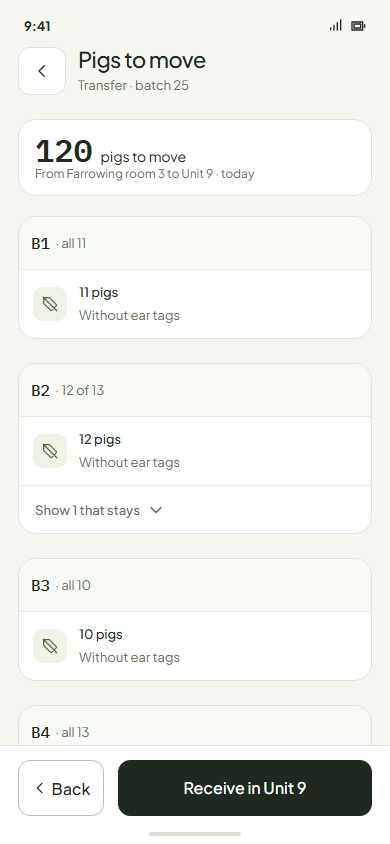
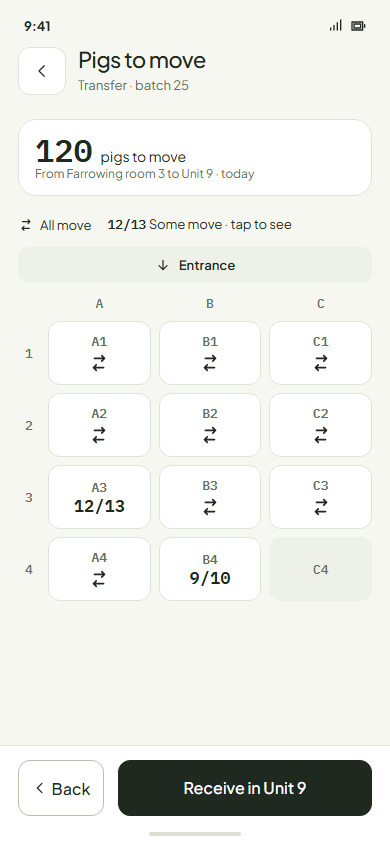
Count: pigs to move is the room's pen map (move glyph, 12/13, move/stay toggle); one receiving; ending the transfer is Farrowing's End task

diff --git a/features/count/PRD.md b/features/count/PRD.md
@@ -30,7 +30,8 @@ Reviewed on the Claude Design canvas ([canvas.md](canvas.md)). Ruled and redrawn
 
 - **Recount is the unit's, with a balance sheet** (owner, 2026-11-03; supersedes the per-pen Review count). *Recount · Unit 7* lists the unit's pens, each with what was found or *Not counted yet*; tapping a pen opens the pen count (all pigs, then ear tags by search or scan), whose *Done* returns to the list. *Count* on a pen page opens the same recount, straight into that pen. *Finish recount* shows the **unit balance sheet**: on record against counted; pigs found in another pen, which move; pigs without ear tags netted pen against pen (D4 −1, D5 +1: balanced), so pigs moved and not updated, or piglets shuffled between pens, stop being losses; and only what the unit can't account for (000803, found in no pen) goes on the batch's balancing sheet. *Save recount*. ([mock 10](mock/mock-10-unit-recount.png), [11](mock/mock-11-unit-balance.png).)
 - **The balance sheet: the result first, then what changed** (owner, 2026-11-03: "like a ledger … click the detail of each"; the first ledger drawing was rejected as ugly). A, recommended: a hero *On record 59 → Counted 60*, then *What changed*, one door per line with its signed figure in a tonal tile: *Found from other units +2*, *Not found −1* (the one amber tile: to the balancing sheet), *Without ear tags 0*. B: the same as a written statement with a sign column and a total rule ([A](mock/mock-11-unit-balance.png), [B](mock/mock-11-unit-balance-b.png)). Each line opens its pigs ([11b](mock/mock-11b-found.png), [11c](mock/mock-11c-not-found.png), [11d](mock/mock-11d-without-tags.png)). A pig moved between pens inside the unit changes no line. The pen list says each pen's state with the Status colours (*Counted* green, *To do* grey) and the pigs counted; its bar is done-green segments on the empty track, never progress blue.
-- **Receiving is two parts: the plan, then the count** (owner, 2026-11-03; supersedes receiving pen by pen). 1 · *The plan*: where the batch goes and how many in each pen, drawn on the unit's pen map (15 a pen, or a pen's maximum), each tile its pen code and its planned number; for gestation crates, the white crates get a sow and no number is needed. The crew puts pigs in by it; it is a guide, and nothing is recorded while pigs are moving. 2 · *The count*: once the pigs are in, *Count pens* turns the same map into the count; a counted pen turns done-green with its count, the rest keep the plan; tapping a pen opens the pen count (all pigs, then ear tags). What was counted is where the pigs are. *Finish receiving* shows *Sent 120 → Counted 119* and what is off (1 not arrived, to the balancing sheet); the plan is not a line ([13](mock/mock-13-receive-plan.png), [13b](mock/mock-13b-receive-crates.png), [14](mock/mock-14-receive-count.png), [12](mock/mock-12-receive-pen.png), [15](mock/mock-15-receive-balance.png)). The map tile carrying a number is a proposed PenMap variant (*plan*). **Pigs to move** shows only what moves (*B2 · 12 of 13*); the pigs that stay fold behind one quiet *Show 1 that stays* line ([9](mock/mock-9-transfer-out.png), [9b](mock/mock-9b-transfer-out-expanded.png)).
+- **Receiving is two parts: the plan, then the count** (owner, 2026-11-03; supersedes receiving pen by pen). 1 · *The plan*: where the batch goes and how many in each pen, drawn on the unit's pen map (15 a pen, or a pen's maximum), each tile its pen code and its planned number; one design for every kind of pen (owner, 2026-11-03: no separate receive sows; a gestation crate simply shows 1). The crew puts pigs in by it; it is a guide, and nothing is recorded while pigs are moving. 2 · *The count*: once the pigs are in, *Count pens* turns the same map into the count; a counted pen turns done-green with its count, the rest keep the plan; tapping a pen opens the pen count (all pigs, then ear tags). What was counted is where the pigs are. *Finish receiving* shows *Sent 120 → Counted 119* and what is off (1 not arrived, to the balancing sheet); the plan is not a line ([13](mock/mock-13-receive-plan.png), [14](mock/mock-14-receive-count.png), [12](mock/mock-12-receive-pen.png), [15](mock/mock-15-receive-balance.png)). The map tile carrying a number is a proposed PenMap variant (*plan*). **Pigs to move is the source room's pen map** (owner, 2026-11-03): a pen whose pigs all go shows the move glyph (not a tick, which reads as done); a pen sending some shows *12/13*; tapping it opens the pen with a toggle, *Move · 12* and *Stay · 1* ([9](mock/mock-9-transfer-out.png), [9b](mock/mock-9b-pen-move.png), [9c](mock/mock-9c-pen-stay.png)).
+- **Ending the transfer is Farrowing's End task** (owner, 2026-11-03: "look at how we do it for the farrowing end task"). After receiving, the task closes from *End task*: the heading answers (*Before you can end* / *Ready to end early* / *Ready to end*); one bar over the batch's pigs, then a row per part: *Received* (done), *Still to count* (in progress, a door: count those pens to end), *Not arrived* (with the amber "!", as *Leave the batch*: goes on the balancing sheet at the end); *When you end* says what ending does (recorded in Unit 9, left in the source room, to the balancing sheet ›); a *Count* card (sent against counted, pens, per pen, ear tags); the hold (*COUNT B4 FIRST* waiting, *Hold to end early* in red wash, *Hold to end*) ([16](mock/mock-16-end-blocked.png), [16b](mock/mock-16b-end-early.png), [16c](mock/mock-16c-end-ready.png)). The End task mocks render against a checkout that has Farrowing's End task (PR 294).
 - **Sex and weight of pigs without ear tags** (owner question): recommended kept on the batch (sex split and the last average weight), never per pen, so a move or count never asks for them.
 
 ---
